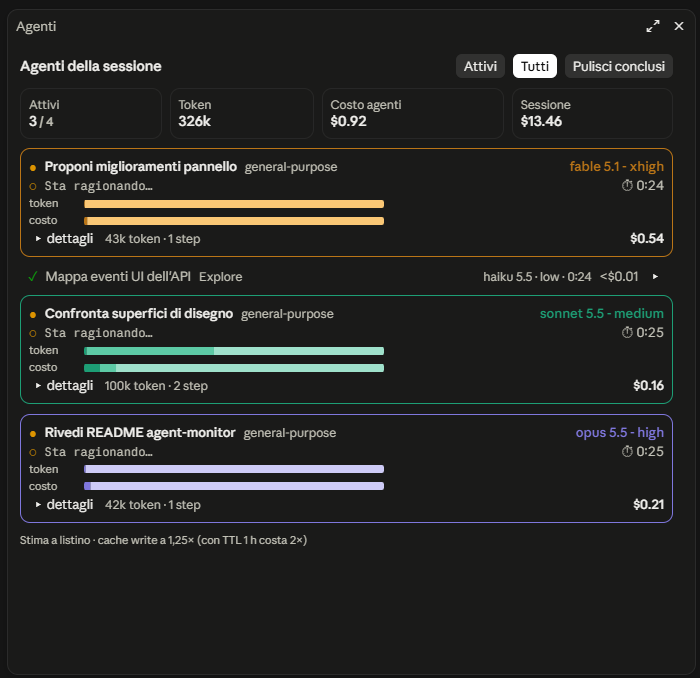
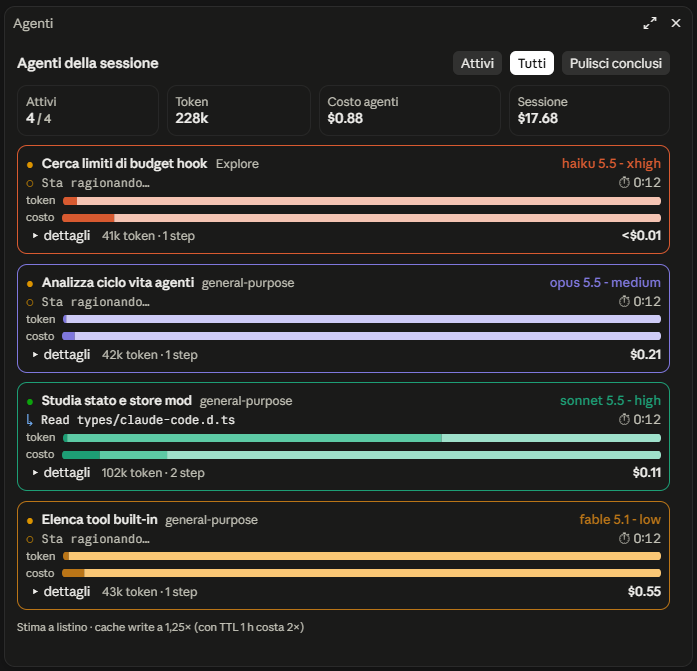
README: screen aggiornato con le barre a tutta larghezza

diff --git a/README.md b/README.md
@@ -2,7 +2,7 @@
 
 Mod di Claude Code che mostra in un pannello live gli agenti (subagenti) della sessione: modello, effort, attività, durata, token e costo stimato.
 
-![Pannello agent-monitor con quattro agenti: fable, haiku, sonnet e opus](docs/pannello.png)
+![Pannello agent-monitor con quattro agenti attivi: haiku, opus, sonnet e fable con effort diversi](docs/pannello.png)
 
 ## Cosa mostra
 
